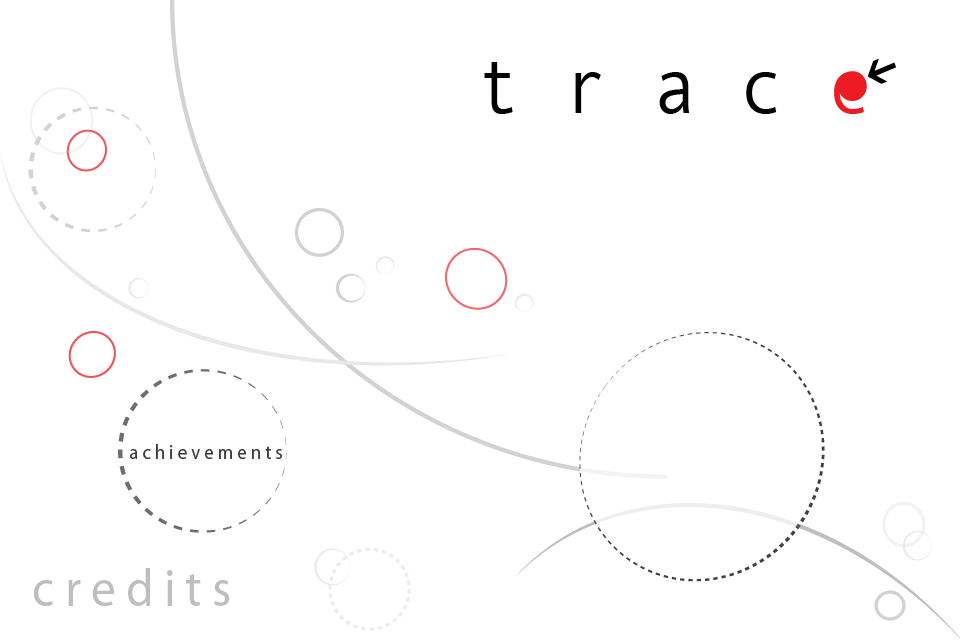
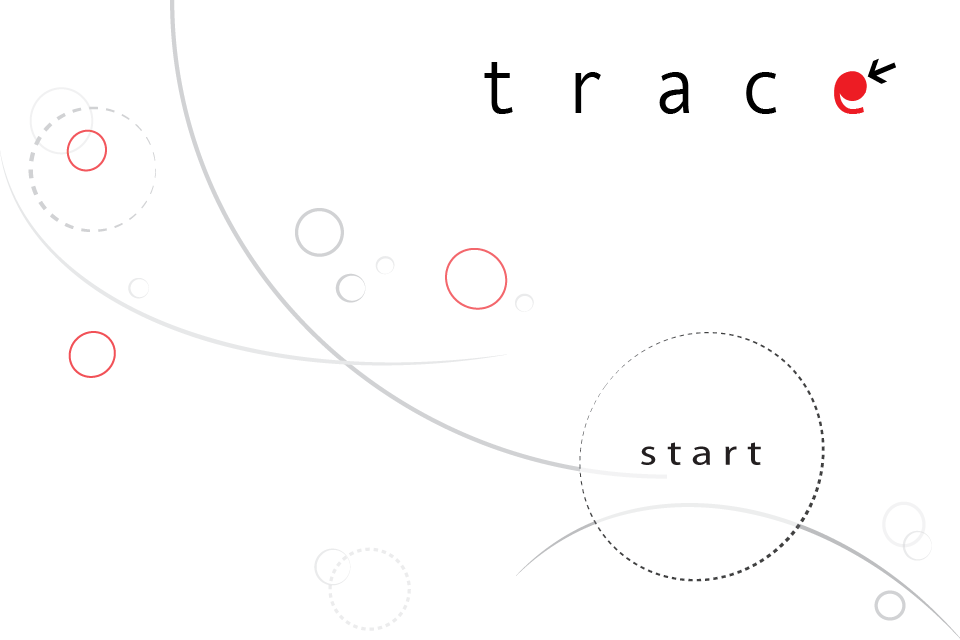
less messy start screen

diff --git a/src/StartMenu.js b/src/StartMenu.js
@@ -102,7 +102,7 @@ function StartMenu() {
 
 
         /* background */
-        var bgd = new createjs.Bitmap("assets/startscreen-late.png");
+        var bgd = new createjs.Bitmap("assets/startscreen(nowords).png");
         _initialMenu.addChild(bgd);
 
         /* logo */
@@ -112,11 +112,9 @@ function StartMenu() {
 
 
         /* start button and its listeners */
-        _startButton = new CenteredButton(697, 471, 105,
+        _startButton = new CenteredButton(698, 458, 105,
             {
-                text: "start",
                 background: ["assets/startcircle1.png", "assets/startcircle2.png"],
-                textColor: "black"
             });
         _startButton.onclick = _startBtnOnclick;
         _initialMenu.addChild(_startButton.shape);
@@ -127,6 +125,7 @@ function StartMenu() {
             background: ["assets/achievementscircle.png"],
             text: "achievements",
             textColor: "black",
+            hoverTextColor: "red",
             font: "20px silom"
         });
         _achievementButton.onclick = _achievementBtnOnclick;
@@ -167,7 +166,11 @@ function StartMenu() {
             var lvl = i + 1;
             var x = 530 + lvlBtnsGap * i;
             var y = 240;
-            var btn = new CenteredButton(x, y, 9, { fillColor: color });
+            var btn = new CenteredButton(x, y, 9,
+                {
+                    fillColor: color,
+                    hoverColor: "#AAA"
+                });
             btn.lvl = lvl;
             btn.x = x;
             btn.y = y;
@@ -201,7 +204,6 @@ function StartMenu() {
 
         // /* make a button for each difficulty */
         _difficultyBtns = [];
-
         _difficultyBtnsContainer = new createjs.Container();
         var l = DIFFICULTIES.length;
         for(var i = 0; i < l; i++) {
@@ -304,8 +306,9 @@ function StartMenu() {
         }
 
         /* text */
+        var title;
         if( options.text !== undefined ) {
-            var title = new createjs.Text(options.text, font, textColor);
+            title = new createjs.Text(options.text, font, textColor);
             title.x = x;
             title.y = y - (title.getMeasuredHeight() / 2);
             title.textAlign = "center";
@@ -372,6 +375,9 @@ function StartMenu() {
                 if( options.onhover !== undefined ) {
                     options.onhover(that);
                 }
+                if(options.hoverTextColor !== undefined) {
+                    title.color = options.hoverTextColor;
+                }
                 // highlightCircle.graphics.setStrokeStyle(2)
                 //     .beginStroke(highlightColor)
                 //     // .beginRadialGradientStroke(["#F00","#00F"], [0, 1], x, y, radius-2, x, y, radius)
@@ -380,6 +386,7 @@ function StartMenu() {
                 if(options.hoverColor !== undefined) {
                     fillCircle.graphics.clear().beginFill(options.fillColor).drawCircle(x, y, radius);
                 }
+                if(title !== undefined) title.color = textColor;
                 highlightCircle.graphics.clear();
             }
             if (this.isClicked()) {

diff --git a/src/LEVELS.js b/src/LEVELS.js
@@ -154,6 +154,45 @@ var LEVELS = {
 			return c.y >= 600;
 		}
 
+	},
+
+	7: {
+
+		name: "Roller Coaster",
+
+		initialize: function(c) {
+			c.x = 100;
+			c.y = 80;
+			c.initx = 100;
+			c.inity = 80;
+			c.velocity = $V([0, 2.5]);
+		},
+
+		terrain: [
+			$V([0, 150]),
+			$V([CANVAS_WIDTH, 150])
+		],
+
+//y = +- sqrt(r^2 - x^2)
+		play: function(c) {
+			if( c.x < 150 ) {
+				var xx = c.x - 125;
+				xx = xx * xx;
+				c.x += 1;
+				c.y = c.inity + Math.sqrt(625 - xx);
+			} else {
+				var xx = c.x - 125;
+				xx = xx * xx;
+				c.x -= 1;
+				c.y = c.inity - Math.sqrt(625 - xx);
+				if( c.x === 100 ) c.done = true;
+			}
+		},
+
+		done: function(c) {
+			return c.done;
+		}
+
 	}
 
 };
